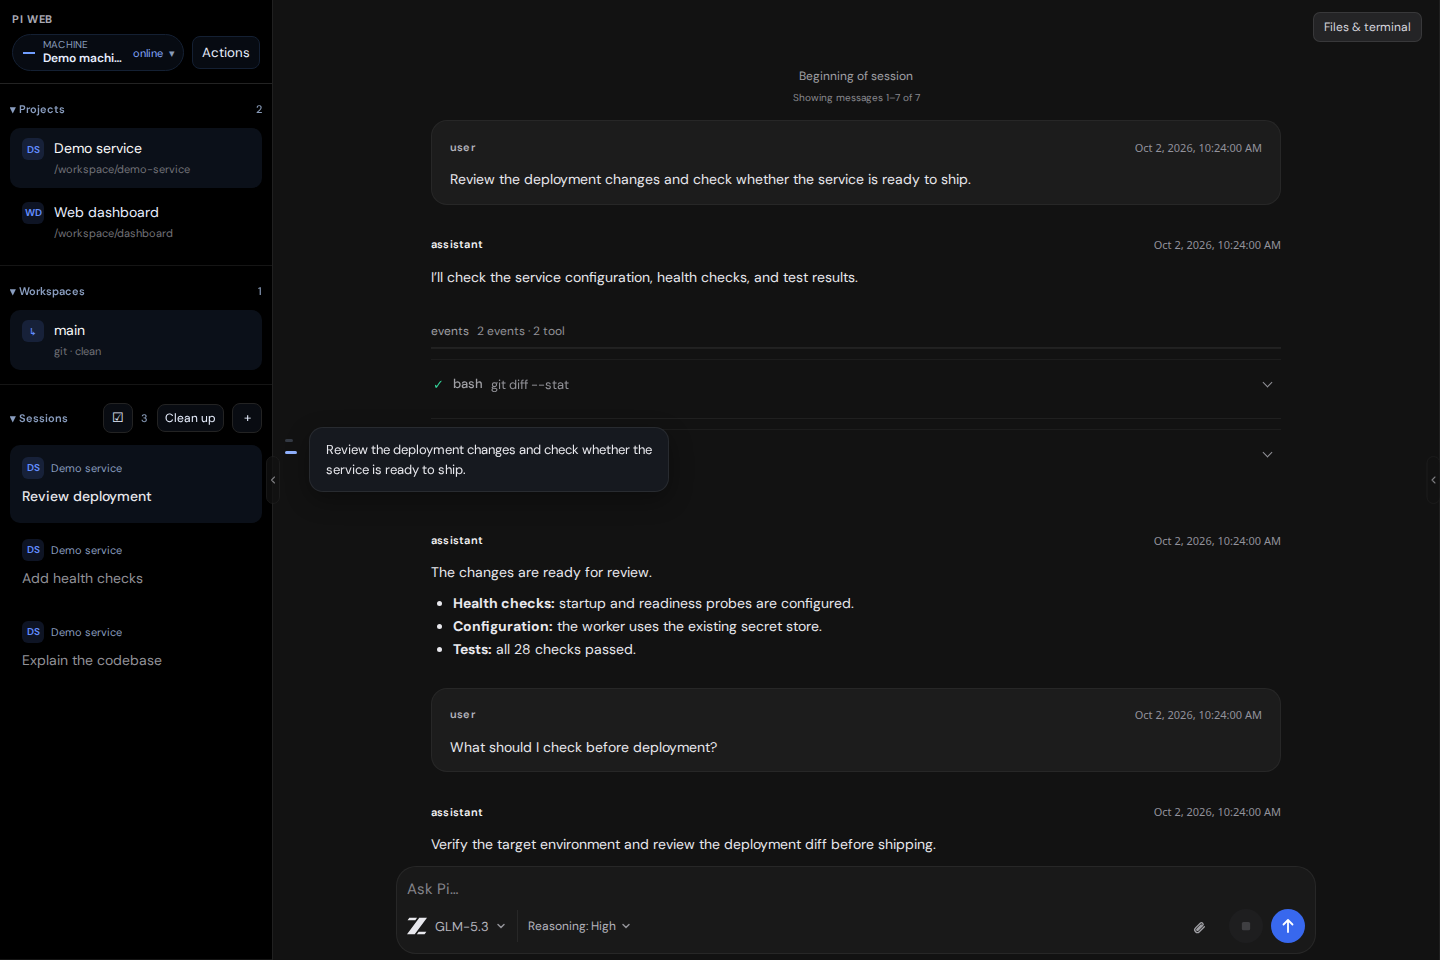
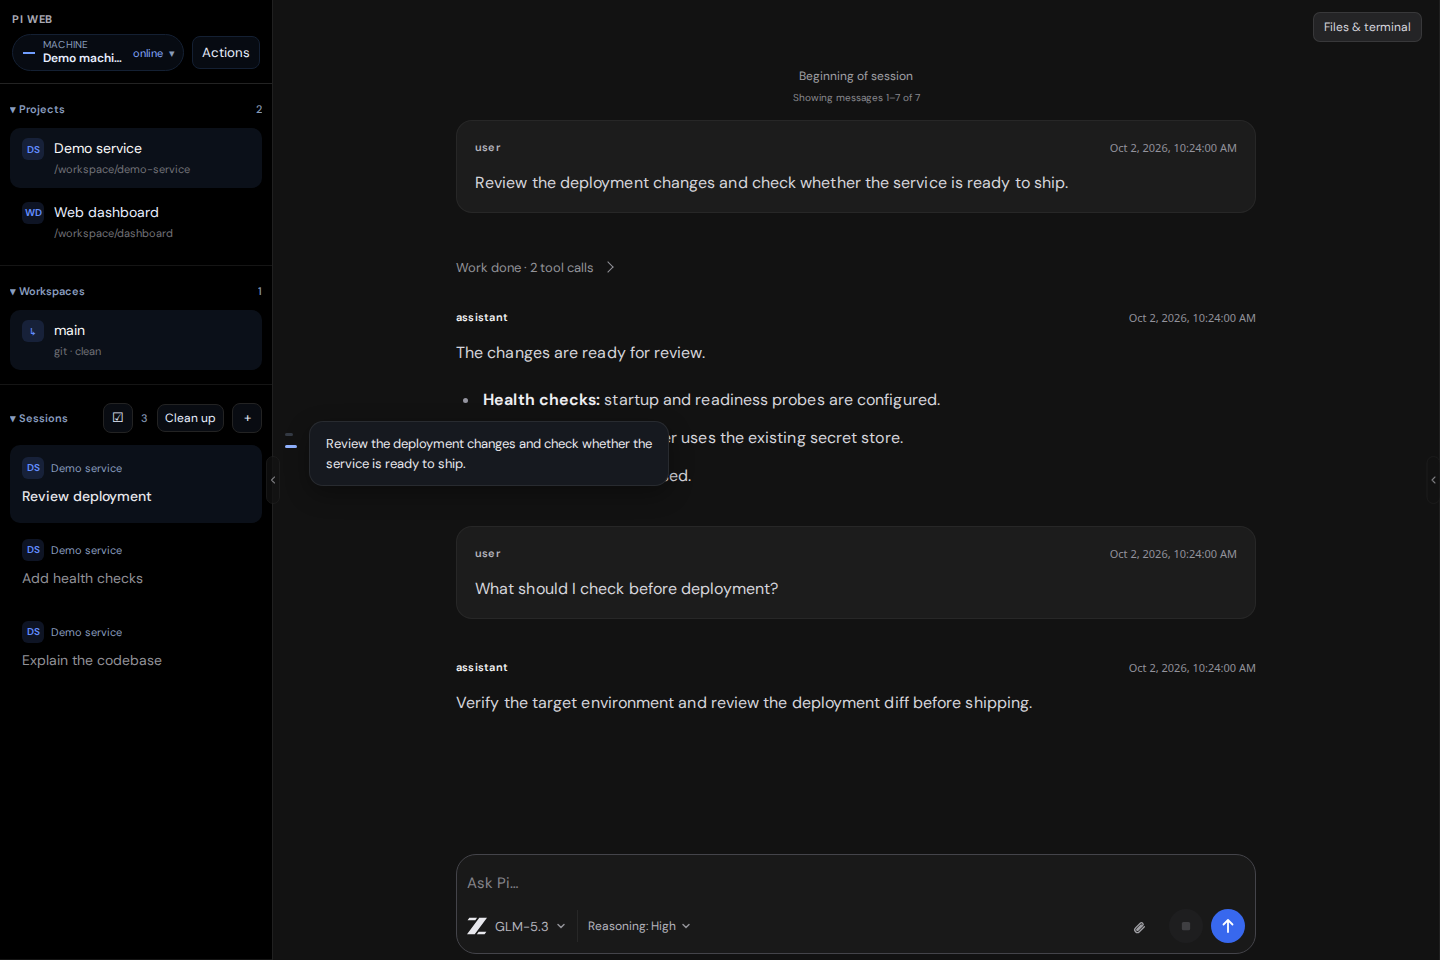
Refresh screenshot gallery with full app overview first

diff --git a/README.md b/README.md
@@ -68,50 +68,63 @@ are never overwritten. Keep the cloned folder in place while using the theme.
 
 ## Screenshots
 
-Screenshots use sample projects and conversation content.
+Captured with Studio Dark 1.15.0. All images use demonstration content.
 
-Completed work stays out of the way; open the dropdown to inspect the original
-progress updates, thinking, and tool activity:
+### Full app overview
+
+The complete desktop layout: sidebar, conversation, completed work, and composer.
+
+![Studio Dark full desktop app](docs/screenshots/desktop.png)
+
+The complete mobile chat: session header, response, model/reasoning selectors,
+and compact input.
+
+![Studio Dark full mobile chat](docs/screenshots/mobile-chat.png)
+
+### Completed work
+
+One dropdown keeps completed activity out of the way. Open it to inspect progress
+updates, thinking, and tool calls while the final answer remains visible.
 
 ![Completed work collapsed](docs/screenshots/work-done-collapsed.png)
 
 ![Completed work expanded](docs/screenshots/work-done-expanded.png)
 
-![Desktop chat with compact tool calls](docs/screenshots/desktop.png)
+### Tool details and thinking
 
-Reading layout with headings, links, lists, tables, and code panels:
+Expand a tool to inspect its command and output. Active thinking uses a brain
+icon with a gentle animation.
+
+![Expanded tool details](docs/screenshots/tool-details.png)
+
+![Thinking indicator](docs/screenshots/thinking.png)
+
+### Models and sessions
+
+Model-family logos and current/default indicators make selection clear. Pin
+important sessions and restore completed work from Done.
+
+![Model picker](docs/screenshots/model-picker.png)
+
+![Pinned and completed sessions](docs/screenshots/sessions.png)
+
+### Reading and message navigation
+
+Headings, links, lists, tables, and code panels share a consistent reading layout.
+Message markers preview your prompts and jump to their position.
 
 ![Desktop reading layout](docs/screenshots/reading-desktop.png)
 
 ![Mobile reading layout](docs/screenshots/reading-mobile.png)
 
-Expanded tool command and output:
-
-![Expanded tool details](docs/screenshots/tool-details.png)
-
-Model selection with provider logos and current/default indicators:
-
-![Model picker](docs/screenshots/model-picker.png)
-
-Message markers preview your prompts and jump to their position:
-
 ![User message navigation](docs/screenshots/message-navigation.png)
 
-Active thinking with a brain icon and moving highlight:
+### Images and attachments
 
-![Thinking indicator](docs/screenshots/thinking.png)
-
-Pin important sessions and restore completed work from Done:
-
-![Pinned and completed sessions](docs/screenshots/sessions.png)
-
-Image previews stay above your message, with clear delivery choices:
+Image previews stay above your message, with clear delivery choices on desktop
+and compact image messages on mobile.
 
 ![Composer with an image attachment](docs/screenshots/attachments.png)
-
-Mobile chat and image messages:
-
-![Mobile chat](docs/screenshots/mobile-chat.png)
 
 ![Mobile images and thinking](docs/screenshots/mobile-images.png)
 
